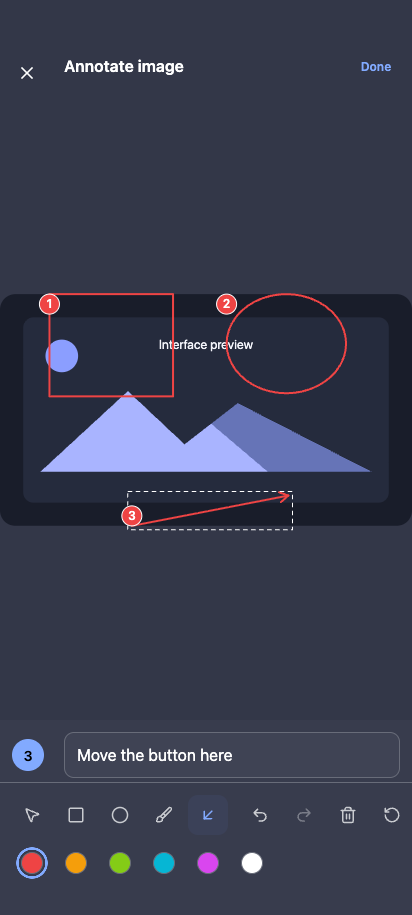
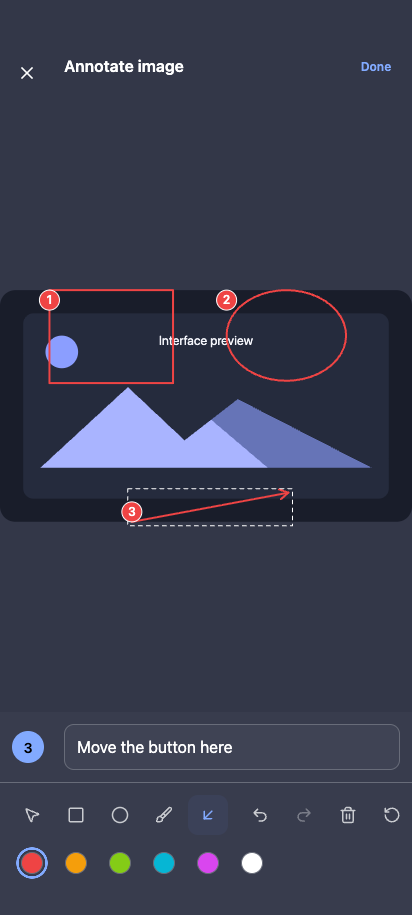
fix: centre the annotator label row with equal padding above and below

Changed region(s): [[0.0, 0.306, 0.9903, 0.5814], [0.1748, 0.7956, 0.5825, 0.8568], [0.0291, 0.7956, 0.1165, 0.8568]]

diff --git a/src/styles.css b/src/styles.css
@@ -9224,7 +9224,7 @@ dialog:focus,
   grid-template-columns: 40px minmax(0, 1fr);
   align-items: center;
   gap: 12px;
-  padding: 12px max(12px, var(--safe-right)) 4px max(12px, var(--safe-left));
+  padding: 12px max(12px, var(--safe-right)) 12px max(12px, var(--safe-left));
   background: var(--gray-2);
 }
 .annotator-region-number {

diff --git a/CHANGELOG.md b/CHANGELOG.md
@@ -14,7 +14,7 @@ The format is based on [Keep a Changelog](https://keepachangelog.com/en/1.1.0/),
 ### Fixed
 
 - Image annotator: a bare tap no longer adds an empty numbered region.
-- Image annotator: the region label row has more room around the number badge, the input and the toolbar.
+- Image annotator: the region label row is vertically centred with equal 12px padding above and below, and the toolbar sits 12px under the divider.
 - Image encoding (photo downscale and annotation export) uses the synchronous canvas data URL first; on Android WebView the async `toBlob` path took 6–13 s per image.
 - Annotation labels typed on a brand-new chat now reach the composer; a gallery markup with no labels and no note no longer inserts an empty request block.
 - Image annotator: the selected tool and colour are marked with a fill and a solid ring instead of hairline outlines, which Android rendered partially; number badges stay inside the image on every edge.
